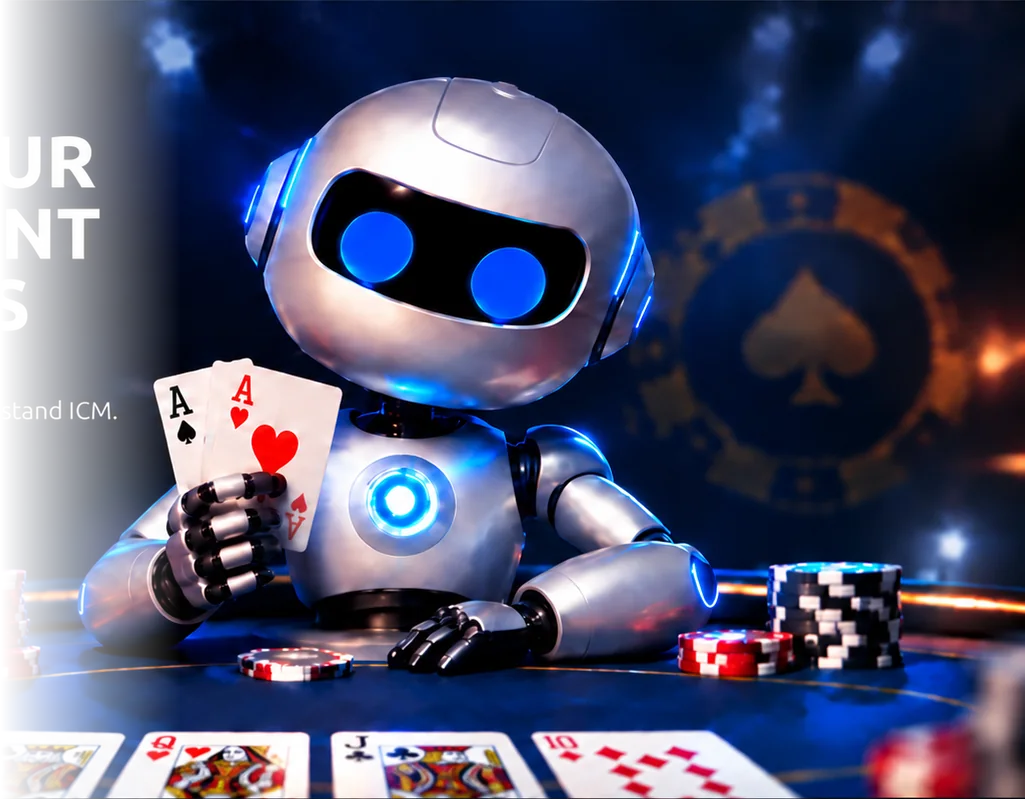
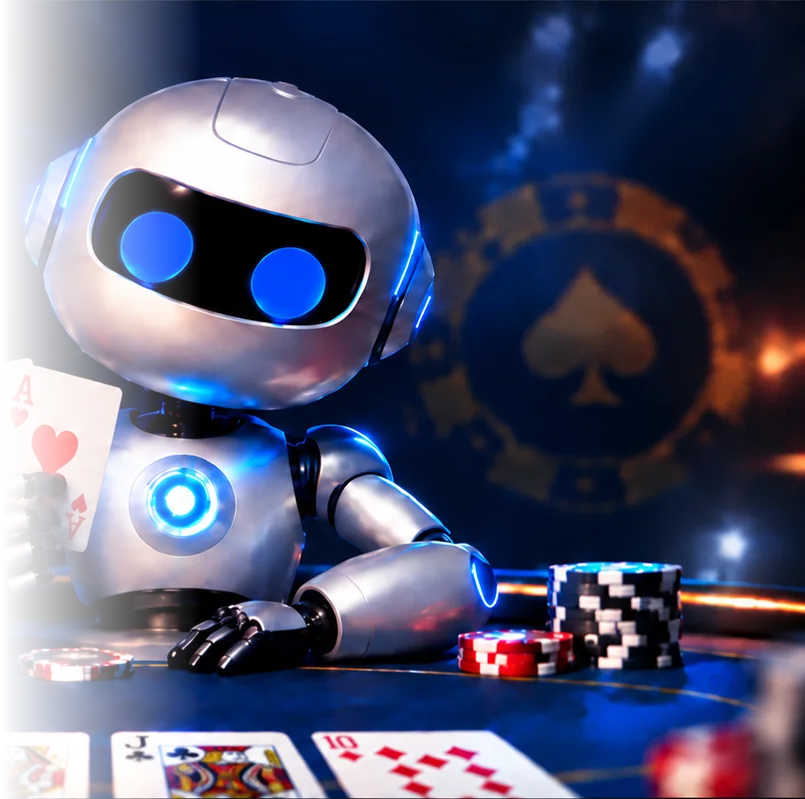
fix(landing): hero-robot crop starts at x=860 so no baked artwork letters show
The old text band ends near x=825; the crop now starts at x=860 with the
same 200px left fade into the background (plan updated to match).

diff --git a/prime-agent-spec/atomic_plan.md b/prime-agent-spec/atomic_plan.md
@@ -793,9 +793,11 @@ fallbacks), and the page must work at 375 px with no horizontal scroll.
   TOURNAMENT DECISIONS", the 8-bot/ICM-coach sub line, START TRAINING FREE
   (gold -> /login) and WATCH DEMO (outline, scrolls to the video), and the
   "Practice only, no real money" line. Right: crop
-  public/images/ICMBOT_target_hero.png to x 640-1665, y 106-905 (no baked
-  text), save as public/images/hero-robot.webp, fade the left edge into the
-  background. The invisible click areas over the old artwork are removed.
+  public/images/ICMBOT_target_hero.png to x 860-1665 (the baked text band
+  ends near x 825; the first crop at 640 showed letter edges), y 106-905 (no
+  baked text), save as public/images/hero-robot.webp, fade the left edge
+  ~200px into the background. The invisible click areas over the old artwork
+  are removed.
 - Video section "SEE ICM BOT IN ACTION" right under the hero; keep the current
   player and poster (a new video replaces the file later).
 - "TRY ONE SPOT" quiz (v2, fixed after PR review): a real bubble spot for
